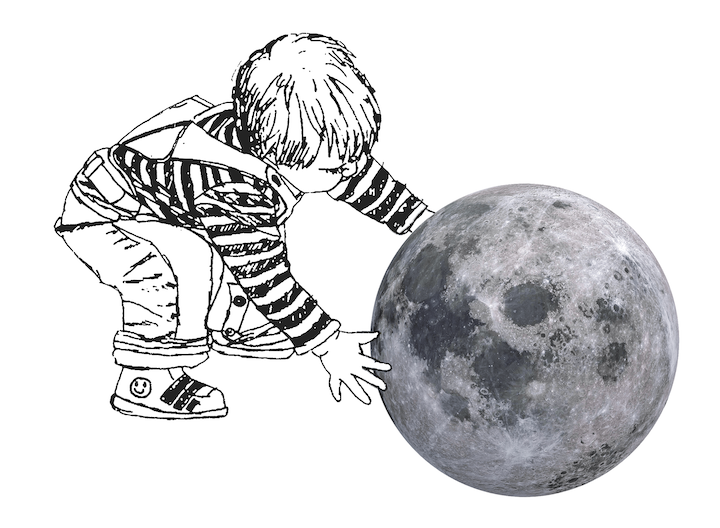
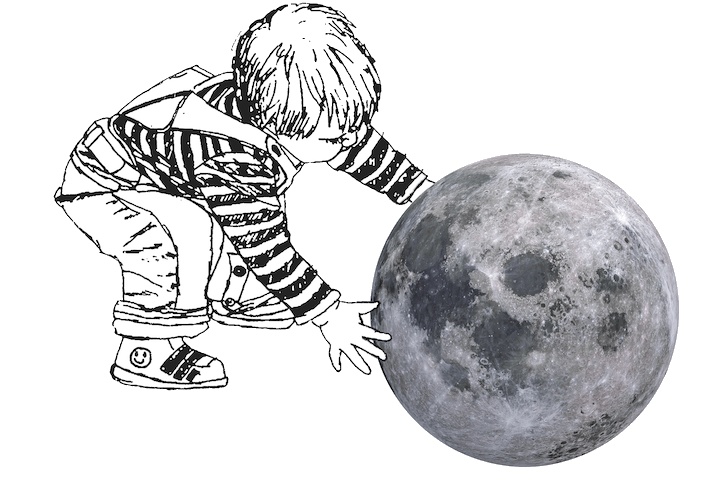
add baby

Changed region(s): [[0.0611, 0.0, 0.9472, 0.9639]]

diff --git a/contact-me.html b/contact-me.html
@@ -28,8 +28,8 @@
                 <a href="./contact-me.html" class="pl-3">Contact</a>
             </div>
         </div>
-        <div class="mt-5 mb-5 row"></div>
-        <div class="mt-5 mb-5 row"></div>
+        <div class="mt-5"></div>
+        <!-- <div class="mt-5 mb-5 row"></div> -->
         <br>
         <div class="row mt-5">
             <div class="col-4 offset-1">
@@ -39,7 +39,7 @@
             </div>
             <div class="col-6 offset-1">
                 <br>
-                <div class="row  d-flex align-items-center">
+                <div class="row mt-5 d-flex align-items-center">
                     <img class="col-2" style="max-width: 80%; height:auto" src="./img/logo/env_black.png">
                     <a class="contact" href="mailto:adai24@gatech.edu">adai24@gatech.edu</a> 
                 </div>
@@ -50,9 +50,10 @@
                 </div>
 
             </div>
+             <img style = "max-width:40%; position: absolute; left: 15vw; bottom: 3vh;"src="./../img/art/moon.png">
         </div>
-
     </div>
+   
 </body>
 
 </html>
